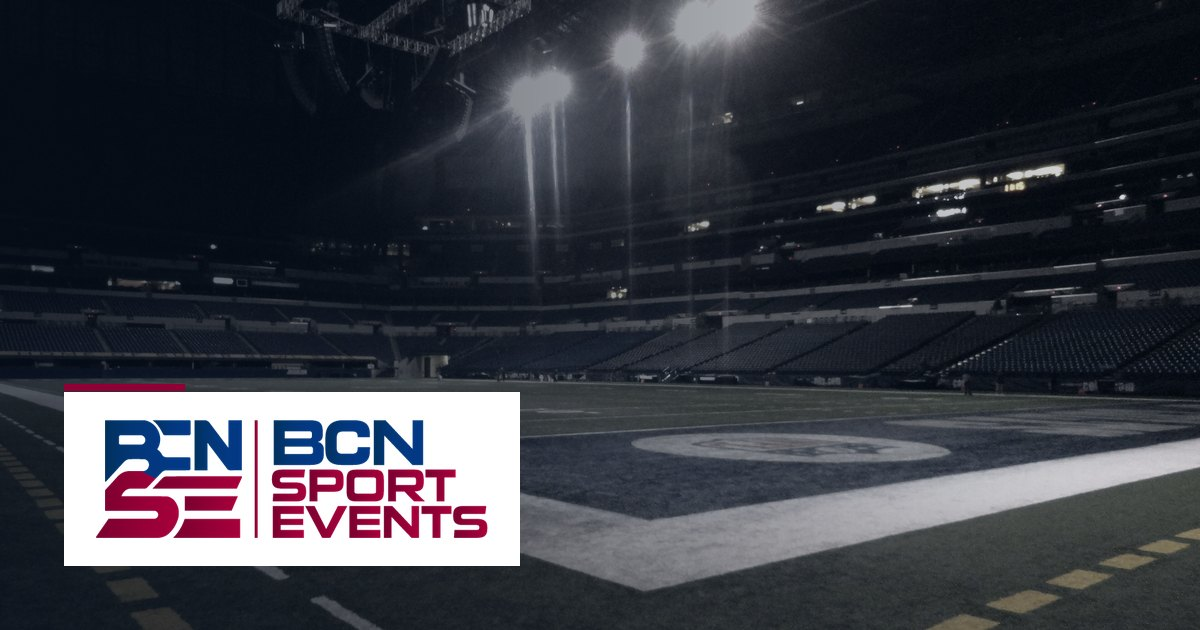
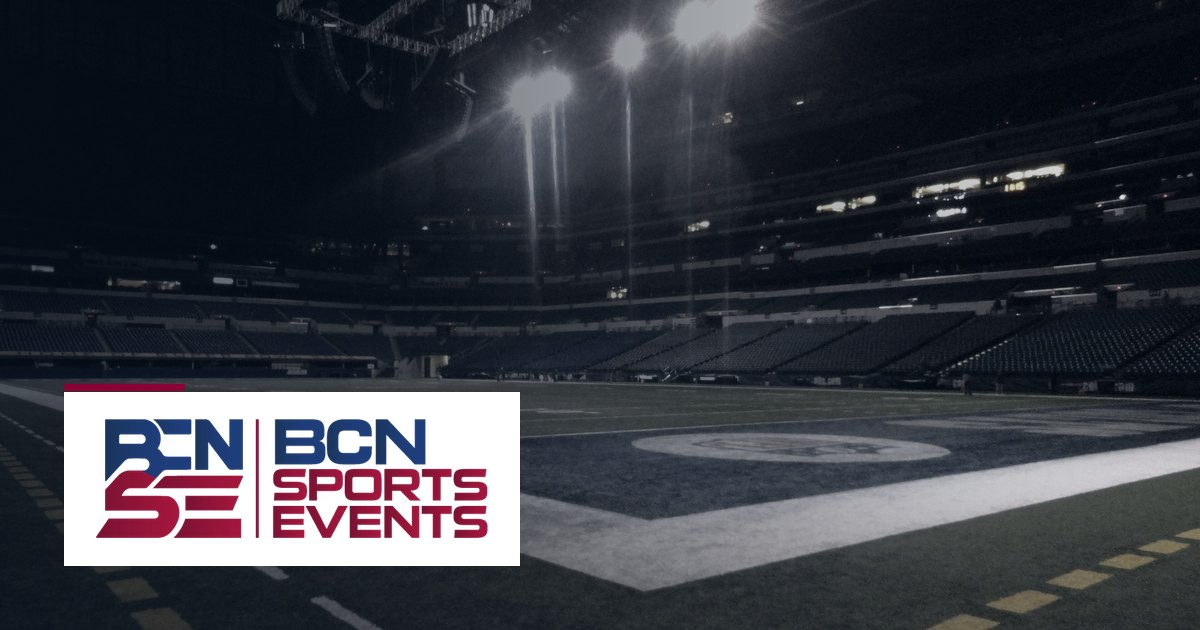
change web

Changed region(s): [[0.0925, 0.6635, 0.4317, 0.8444]]

diff --git a/index.html b/index.html
@@ -3,7 +3,7 @@
   <head>
     <meta charset="UTF-8" />
     <meta name="viewport" content="width=device-width, initial-scale=1.0" />
-    <title>BCN Sport Events | Football Academies, Sports Events &amp; Knowledge Transfer</title>
+    <title>BCN Sports Events | Football Academies, Sports Events &amp; Knowledge Transfer</title>
     <meta
       name="description"
       content="Dubai-based sports consultancy with knowledge rooted in Barcelona. Football academies, training and knowledge transfer, sports events, infrastructure optimisation and sports business development."
@@ -16,8 +16,8 @@
 
     <!-- Open Graph. Add og:url and a canonical link once the public URL is confirmed. -->
     <meta property="og:type" content="website" />
-    <meta property="og:site_name" content="BCN Sport Events" />
-    <meta property="og:title" content="BCN Sport Events | Football Academies, Sports Events &amp; Knowledge Transfer" />
+    <meta property="og:site_name" content="BCN Sports Events" />
+    <meta property="og:title" content="BCN Sports Events | Football Academies, Sports Events &amp; Knowledge Transfer" />
     <meta
       property="og:description"
       content="Dubai-based sports consultancy with knowledge rooted in Barcelona. Football academies, training and knowledge transfer, sports events, infrastructure optimisation and sports business development."
@@ -49,7 +49,7 @@
     <div id="root"></div>
     <noscript>
       <p style="padding:24px;font-family:sans-serif">
-        BCN Sport Events — football academies, training and knowledge transfer, sports events, sports infrastructure optimisation and sports business development.
+        BCN Sports Events — football academies, training and knowledge transfer, sports events, sports infrastructure optimisation and sports business development.
         Based in Dubai, knowledge in Barcelona. Contact:
         <a href="mailto:contact@bcnsportsevents.com">contact@bcnsportsevents.com</a>
       </p>

diff --git a/src/components/Footer.tsx b/src/components/Footer.tsx
@@ -3,19 +3,19 @@ export default function Footer() {
   return (
     <footer className="site-footer">
       <div className="container site-footer__inner">
-        <a className="site-footer__brand" href="#top" aria-label="BCN Sport Events — back to top">
+        <a className="site-footer__brand" href="#top" aria-label="BCN Sports Events — back to top">
           <img
             src="/brand/logo-300.webp"
             srcSet="/brand/logo-300.webp 300w, /brand/logo-582.webp 582w"
             sizes="150px"
             width={582}
-            height={183}
-            alt="BCN Sport Events"
+            height={184}
+            alt="BCN Sports Events"
             loading="lazy"
           />
         </a>
         <p className="site-footer__meta">
-          © {year} BCN Sport Events. Dubai · Barcelona.
+          © {year} BCN Sports Events. Dubai · Barcelona.
           <span className="site-footer__credit">
             Photography is illustrative; see <a href="/CREDITS.txt">image credits</a>.
           </span>

diff --git a/src/components/About.tsx b/src/components/About.tsx
@@ -10,7 +10,7 @@ export default function About() {
         <div className="about__text">
           <p className="eyebrow" data-reveal>
             <span className="eyebrow__rule" aria-hidden="true" />
-            About BCN Sport Events
+            About BCN Sports Events
           </p>
           <h2 id="about-title" className="h2" data-reveal>
             Two cities.
@@ -18,7 +18,7 @@ export default function About() {
           </h2>
           <div className="about__body" data-reveal>
             <p className="lead">
-              BCN Sport Events is a Dubai-based sports consultancy with knowledge rooted in Barcelona. We work across football
+              BCN Sports Events is a Dubai-based sports consultancy with knowledge rooted in Barcelona. We work across football
               academies, training and knowledge transfer, sports events, infrastructure and sports business — always
               around clear objectives and the people taking part.
             </p>

diff --git a/src/components/Header.tsx b/src/components/Header.tsx
@@ -63,14 +63,14 @@ export default function Header() {
   return (
     <header className={`site-header${scrolled ? ' is-scrolled' : ''}${open ? ' is-open' : ''}`}>
       <div className="site-header__inner">
-        <a className="brand" href="#top" aria-label="BCN Sport Events — back to top" onClick={close}>
+        <a className="brand" href="#top" aria-label="BCN Sports Events — back to top" onClick={close}>
           <img
             src="/brand/logo-300.webp"
             srcSet="/brand/logo-300.webp 300w, /brand/logo-582.webp 582w"
             sizes="(max-width: 600px) 124px, 150px"
             width={582}
-            height={183}
-            alt="BCN Sport Events"
+            height={184}
+            alt="BCN Sports Events"
           />
         </a>
 

diff --git a/README.md b/README.md
@@ -1,6 +1,6 @@
-# BCN Sport Events — website
+# BCN Sports Events — website
 
-Single-page corporate site for BCN Sport Events (Dubai · Barcelona), built with React, Vite and TypeScript.
+Single-page corporate site for BCN Sports Events (Dubai · Barcelona), built with React, Vite and TypeScript.
 
 ## Run
 
